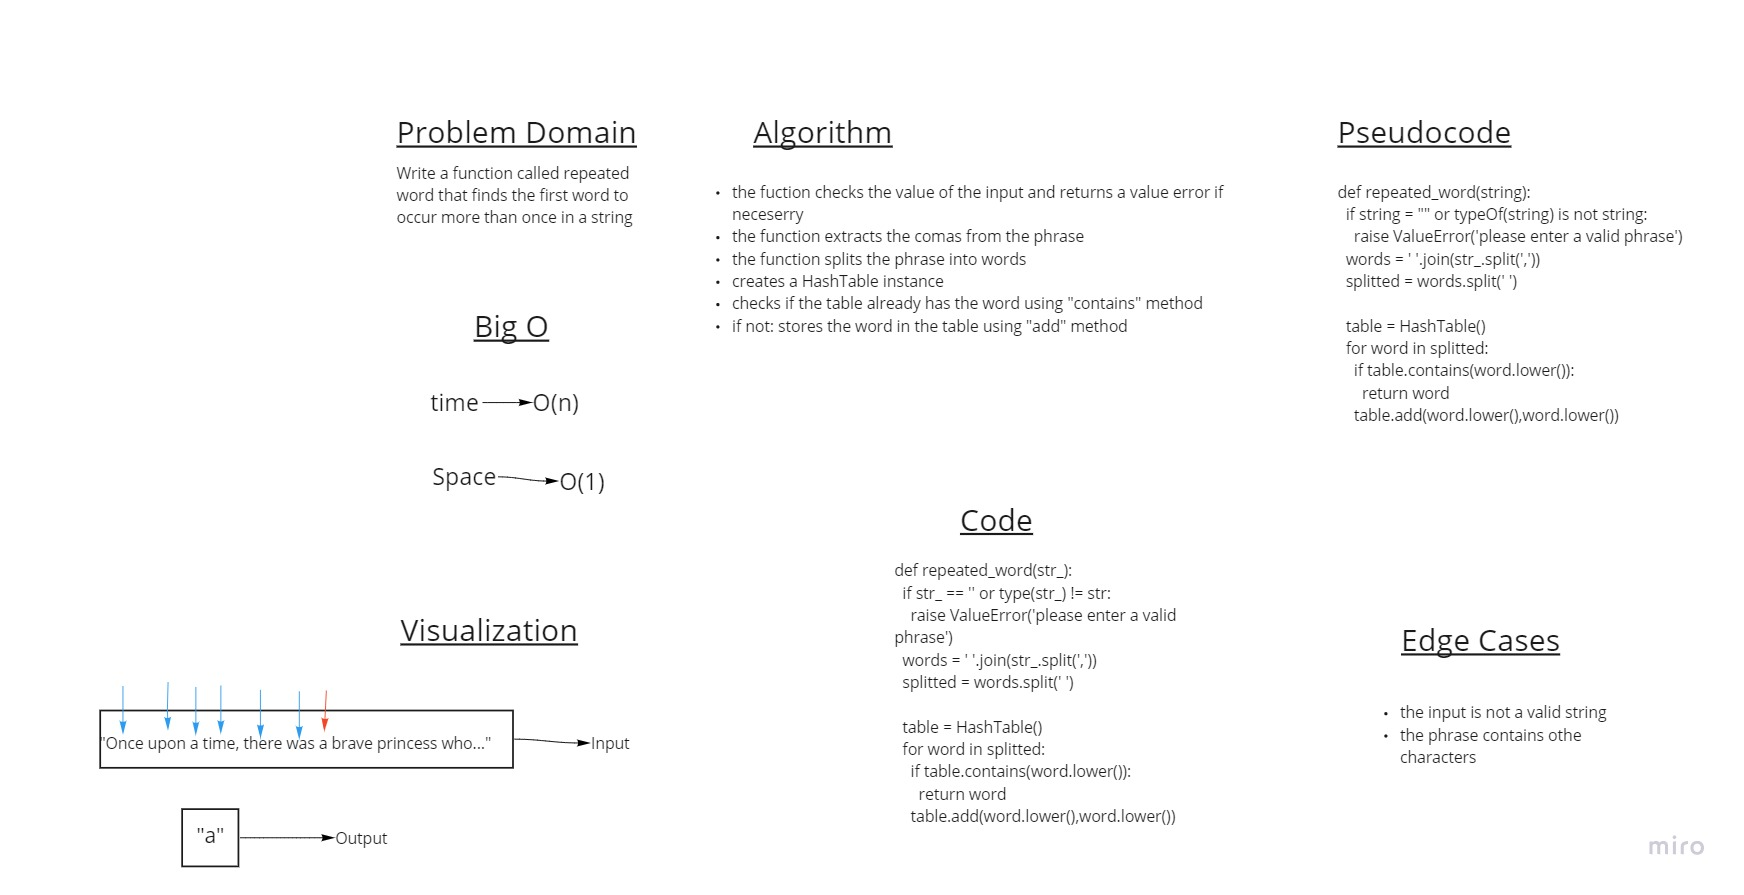
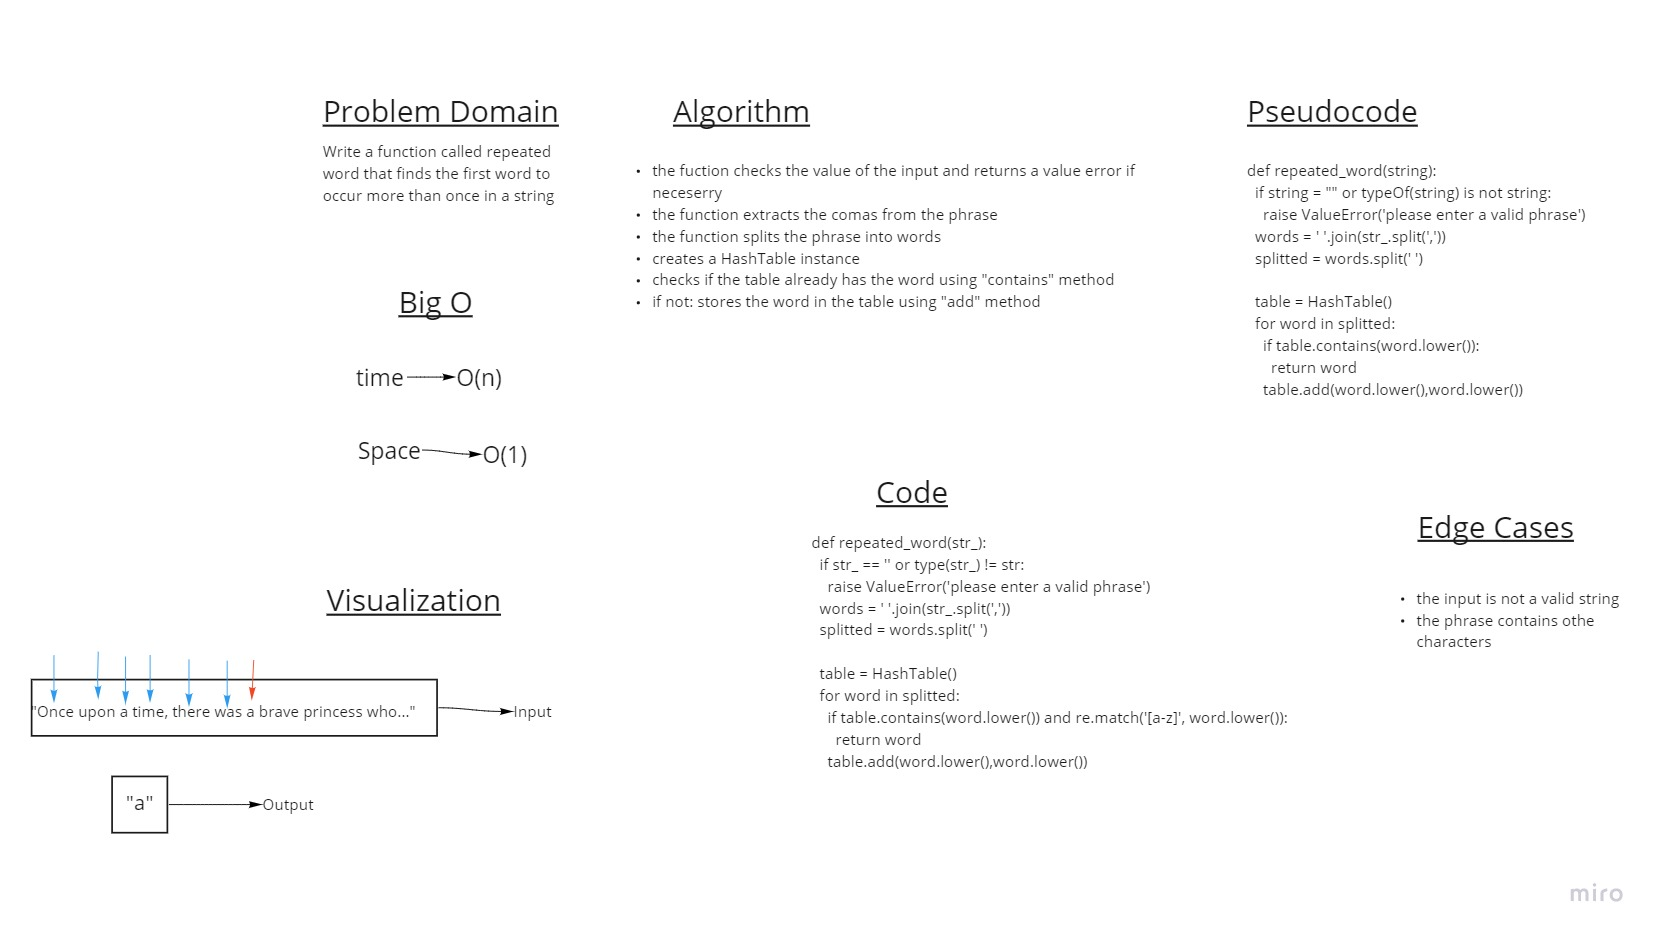
update

diff --git a/python/hash-table/hash_table/repeatedWord.py b/python/hash-table/hash_table/repeatedWord.py
@@ -1,20 +1,18 @@
-from hash_table.hash_table import HashTable
-
+from hash_table import HashTable
+import re
 
 def repeated_word(str_):
   if str_ == '' or type(str_) != str:
     raise ValueError('please enter a valid phrase')
   words = ' '.join(str_.split(','))
   splitted = words.split(' ')
-
   table = HashTable()
   for word in splitted:
-    if table.contains(word.lower()):
+    if table.contains(word.lower()) and re.match('[a-z]', word.lower()):
       return word
     table.add(word.lower(),word.lower())
 
 
 
 if __name__=='__main__':
-  print(repeated_word('i am anas i am anas'))
-  print(repeated_word(''))
+  print(repeated_word('It was a queer, sultry summer, the summer they electrocuted the Rosenbergs, and I didn’t know what I was doing in New York...'))
